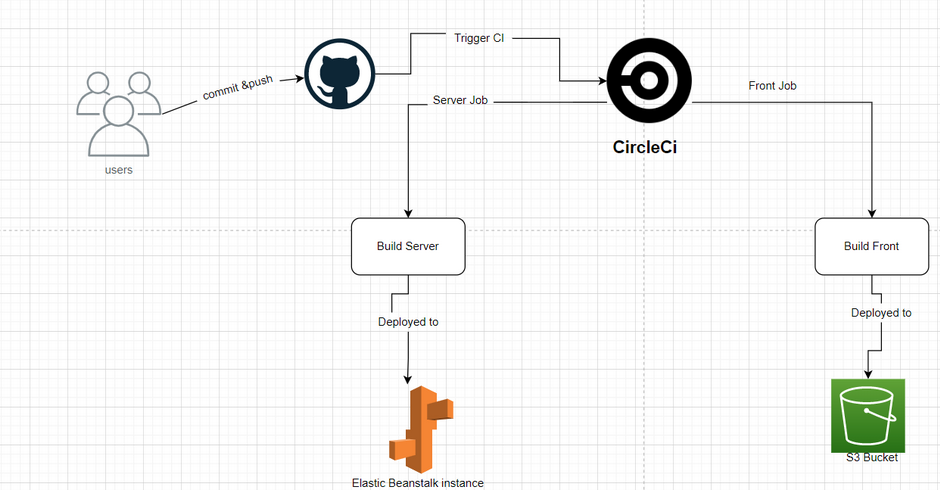
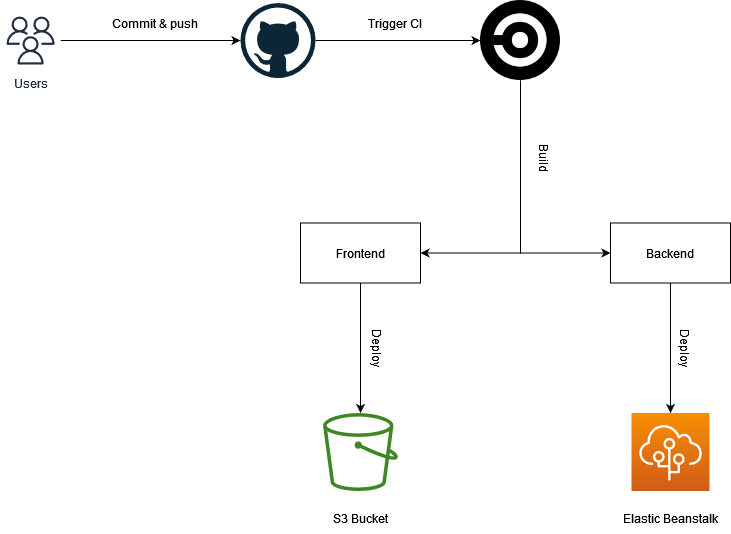
Add pipeline to documentation

diff --git a/README.md b/README.md
@@ -62,7 +62,7 @@ The e2e tests are using Protractor and Jasmine.
 
 ## Documentation
 
-You can read more about the deployment infos in the [DOCS.md](https://github.com/3rwinn/hosting-udagram/blob/master/DOCS.md) file.
+You can read more about the deployment infos in the [DOCS.md](https://github.com/3rwinn/hosting-udagram/blob/master/documentation) file.
 
 ## License
 

diff --git a/documentation/pipeline.md b/documentation/pipeline.md
@@ -1,0 +1,4 @@
+## CircleCI Pipeline
+
+
+![CircleCI Pipeline](https://github.com/3rwinn/hosting-udagram/blob/master/screenshots/CircleCI%20pipeline.png?raw=true)
